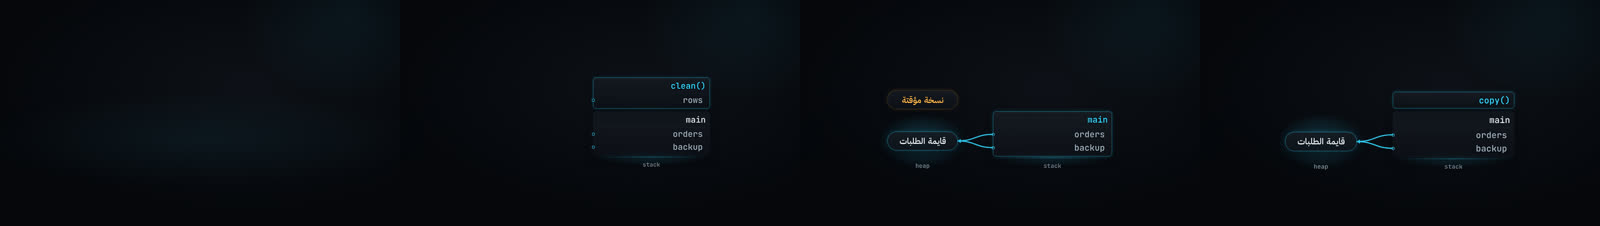
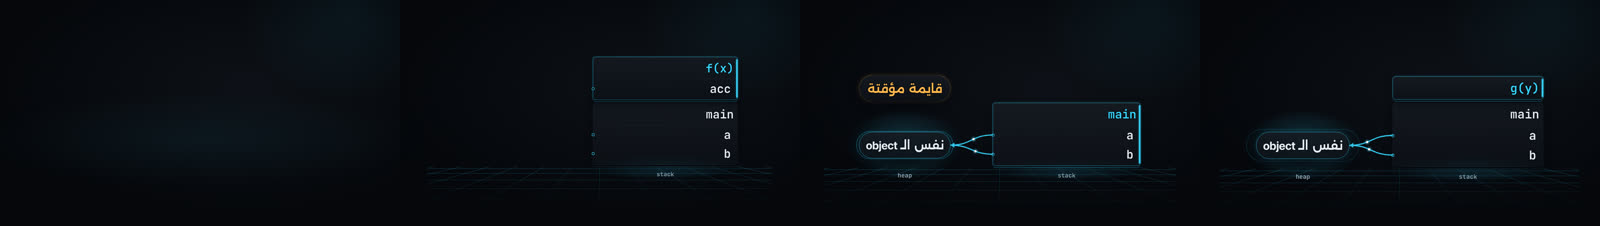
P7 struct-b: StackHeap finished (glass slabs on perspective floor, light-cursor bar, travelling ref pulses, aliasing pulse, collect sparks; CH-08 demo; snap PASS det 0 qa 0, baselines pending-critic; perf lite 0.073 / standard 0.091 / hero 0.091 box s/frame; Arabic QA pass)
Claude-Session: https://claude.ai/code/session_01VrU9wxU8GmuhdhWAAHnnQ8

diff --git a/studio/src/components/StackHeap/StackHeap.tsx b/studio/src/components/StackHeap/StackHeap.tsx
@@ -18,7 +18,7 @@ import {hex} from '../../fx/look';
 import {ease, presetFrames} from '../../type/reveal';
 import type {DcComponent, DcProps} from '../../spec/types';
 import type {Props} from './schema';
-import {GlowPath, Lbl, Pool, actionsOf, arrowHead, cPath, cardStyle, clamp01, f24, layerStyle, prog, rtlOf} from '../_struct-b/kit';
+import {GlowPath, Lbl, Pool, actionsOf, arrowHead, cAt, cPath, cardStyle, clamp01, f24, layerStyle, prog, rtlOf, type Pt} from '../_struct-b/kit';
 
 type Ctx = DcProps<Props>['ctx'];
 type SFrame = {key: string; label: string; vars: string[]; born: number; died: number};
@@ -55,24 +55,24 @@ export const StackHeapView: React.FC<DcProps<Props>> = ({props, ctx}) => {
   const k = 1 + ctx.mod.glow;
   // ---- stack geometry (conservative: every frame that ever exists, so nothing jumps when frames come and go) ----
   const headTop = Math.round(SIZE.label * 1.6); // column captions
-  const stackW = Math.min(560, w * 0.36);
+  const stackW = Math.min(760, w * 0.42);
   const avail = h - headTop - 12;
   const gap = 14;
   const dims = (s: number, fold: number) => {
-    const rowH = Math.round(s * 1.55);
+    const rowH = Math.round(s * 1.6);
     const hdr = Math.round(s * 1.9);
     const hs = tl.frames.map((f, i) => hdr + (i < fold ? 0 : f.vars.length * rowH) + (f.vars.length && i >= fold ? 10 : 0));
     return {rowH, hdr, hs, total: hs.reduce((a, b) => a + b, 0) + gap * Math.max(0, tl.frames.length - 1)};
   };
-  let s: number = SIZE.body;
+  let s: number = SIZE.sub; // 56 px at the largest; shrinks to the 28 px floor as frames / variables grow
   let fold = 0;
   let dm = dims(s, fold);
   while (dm.total > avail && s > SIZE.labelMin) dm = dims((s -= 2), fold);
   while (dm.total > avail && fold < tl.frames.length - 1) dm = dims(s, ++fold);
   // heap columns first (the stack + heap group is centred horizontally in the box)
-  const objW = Math.min(340, Math.max(200, w * 0.2));
+  const objW = Math.min(460, Math.max(240, w * 0.26));
   const objH = Math.round(s * 2.2);
-  const heapGap = Math.max(80, w * 0.1);
+  const heapGap = Math.max(100, w * 0.12);
   const minGap = objH + 26;
   const hcols = tl.heap.length * minGap > h - headTop - 24 ? 2 : 1;
   const groupW = stackW + (tl.heap.length ? heapGap + objW + (hcols - 1) * (objW + 50) : 0);
@@ -82,7 +82,7 @@ export const StackHeapView: React.FC<DcProps<Props>> = ({props, ctx}) => {
   // stack slots: alive frames bottom-up; a frame keeps its slot (pushes / pops only touch the top)
   const alive = (f: SFrame) => f.born <= t && t < f.died + exitN;
   const slotY = new Map<string, number>();
-  const floorY = Math.round((h + dm.total) / 2 - SIZE.labelMin); // the whole stack (every frame that ever exists) is centred in the box
+  const floorY = Math.round((h + dm.total) / 2 - SIZE.labelMin * 2.5); // the whole stack (every frame that ever exists) is centred in the box
   let yb = floorY;
   tl.frames.forEach((f, i) => {
     if (t < f.born) return;
@@ -159,19 +159,27 @@ export const StackHeapView: React.FC<DcProps<Props>> = ({props, ctx}) => {
     const orphan = oa === Infinity ? 0 : prog(t, oa, lblN);
     return {ent, gc, orphan, on: t >= o.born && gc < 1};
   };
+  // heap objects float a few px above the floor (the heap is free memory, the stack stands on the floor); settles after entry
+  const bobOf = (o: HObj, j: number) => {
+    const u = clamp01((t - o.born) / Math.max(1, lblN * 3));
+    return Math.sin(((t - o.born) / (ctx.fps * 3.4)) * Math.PI * 2 + j * 1.7) * 3.2 * u;
+  };
+  const bobs = new Map(tl.heap.map((o, j) => [o.id, bobOf(o, j)]));
   // ---- references ----
-  type R = {d: string; head: string; on: number; to: string};
+  type R = {d: string; head: string; on: number; to: string; pts: [Pt, Pt, Pt, Pt]; drawn: number};
   const refs: R[] = [];
   const incoming = new Map<string, number>();
   props.refs.forEach((r, i) => {
     const to = tl.heap.find((o) => o.id === r.to);
-    const tp = objPos.get(r.to);
+    const tp0 = objPos.get(r.to);
+    const tp = tp0 && {x: tp0.x, y: tp0.y + (bobs.get(r.to) ?? 0)};
     if (!to || !tp) return;
     const ts = objState(to);
     let a: {x: number; y: number; on: number} | undefined = ports.get(r.from);
     if (!a) {
       const src = tl.heap.find((o) => o.id === r.from);
-      const sp = src && objPos.get(src.id);
+      const sp0 = src && objPos.get(src.id);
+      const sp = sp0 && {x: sp0.x, y: sp0.y + (bobs.get(src!.id) ?? 0)};
       if (src && sp) {
         const ss = objState(src);
         a = {x: sp.x + ((tp.x > sp.x ? 1 : -1) * objW) / 2, y: sp.y, on: ss.on ? ss.ent * (1 - ss.gc) : 0};
@@ -189,23 +197,40 @@ export const StackHeapView: React.FC<DcProps<Props>> = ({props, ctx}) => {
     const tx = tp.x + ((a.x < tp.x ? -1 : 1) * objW) / 2;
     const b = {x: tx, y: tp.y};
     const dx = (b.x - a.x) * 0.5;
-    refs.push({d: cPath(a, {x: a.x + dx, y: a.y}, {x: b.x - dx, y: b.y}, b), head: draw >= 1 ? arrowHead(b, {x: b.x - a.x >= 0 ? 1 : -1, y: 0}, 9) : '', on: on * Math.min(1, draw * 2), to: r.to});
+    refs.push({d: cPath(a, {x: a.x + dx, y: a.y}, {x: b.x - dx, y: b.y}, b), head: draw >= 1 ? arrowHead(b, {x: b.x - a.x >= 0 ? 1 : -1, y: 0}, 11) : '', on: on * Math.min(1, draw * 2), to: r.to, pts: [a, {x: a.x + dx, y: a.y}, {x: b.x - dx, y: b.y}, b], drawn: Math.max(tl.refsStart + f24(2 * i, ctx.fps), to.born) + presetFrames('arrive', ctx.fps)});
     if (draw >= 1) incoming.set(r.to, (incoming.get(r.to) ?? 0) + 1);
   });
   return (
     <div style={{position: 'absolute', left: ctx.box.x, top: ctx.box.y, width: w, height: h, ...layerStyle(ctx, rtl)}}>
       {/* column captions (Latin chrome) */}
-      <Lbl id={`${ctx.id}:cs`} text="stack" x={stackX + stackW / 2} y={capY} valign="top" maxW={stackW} size={SIZE.labelMin} color={C.ink3} opacity={prog(t, ctx.at, lblN)} role="code" />
-      {tl.heap.length ? <Lbl id={`${ctx.id}:ch`} text="heap" x={heapCx} y={capY} valign="top" maxW={objW * 2} size={SIZE.labelMin} color={C.ink3} opacity={prog(t, tl.heap[0].born, lblN)} role="code" /> : null}
+      <Lbl id={`${ctx.id}:cs`} text="stack" x={stackX + stackW / 2} y={capY} valign="top" maxW={stackW} size={SIZE.labelMin} color={C.ink2} opacity={prog(t, ctx.at, lblN)} role="code" />
+      {tl.heap.length ? <Lbl id={`${ctx.id}:ch`} text="heap" x={heapCx} y={capY} valign="top" maxW={objW * 2} size={SIZE.labelMin} color={C.ink2} opacity={prog(t, tl.heap[0].born, lblN)} role="code" /> : null}
       {/* aliasing pools behind objects that two names point at */}
       {tl.heap.map((o) => {
         const p = objPos.get(o.id)!;
         const m = incoming.get(o.id) ?? 0;
         return m >= 2 ? <Pool key={o.id} x={p.x} y={p.y} r={objW * 0.9} color={C.signal} a={0.24} squash={0.6} /> : null;
       })}
-      {/* stack floor: a lit base line the frames stand on */}
-      <Pool x={stackX + stackW / 2} y={floorY + 8} r={stackW * 0.7} color={C.signal} a={0.16 * k} squash={0.14} />
-      <div style={{position: 'absolute', left: stackX, top: floorY + 6, width: stackW, height: 3, borderRadius: 2, background: `linear-gradient(90deg, transparent, ${C.signal}${hex(0.7)}, transparent)`, opacity: prog(t, ctx.at, lblN)}} />
+      {/* floor plane: a perspective grid fading away from the lit base line the frames stand on (depth + light, ADR-003 LK-F) */}
+      <svg width={w} height={h} style={{position: 'absolute', inset: 0, overflow: 'hidden', opacity: prog(t, ctx.at, lblN)}}>
+        <defs>
+          <linearGradient id={`${ctx.id}-fl`} gradientUnits="userSpaceOnUse" x1="0" y1={floorY + 8} x2="0" y2={h}>
+            <stop offset="0" stopColor={C.signal} stopOpacity={0.34} />
+            <stop offset="1" stopColor={C.signal} stopOpacity={0} />
+          </linearGradient>
+        </defs>
+        {Array.from({length: 6}, (_, i) => {
+          const d = Math.pow((i + 1) / 6, 1.7) * Math.max(40, h - floorY - 8);
+          const half = groupW * (0.62 + 0.32 * ((i + 1) / 6));
+          return <line key={`h${i}`} x1={gx + groupW / 2 - half} x2={gx + groupW / 2 + half} y1={floorY + 8 + d} y2={floorY + 8 + d} stroke={`url(#${ctx.id}-fl)`} strokeWidth={1.5} />;
+        })}
+        {Array.from({length: 13}, (_, j) => {
+          const q = (j - 6) * groupW * 0.1;
+          return <line key={`v${j}`} x1={gx + groupW / 2 + q} y1={floorY + 8} x2={gx + groupW / 2 + q * 2.4} y2={h} stroke={`url(#${ctx.id}-fl)`} strokeWidth={1.5} />;
+        })}
+      </svg>
+      <Pool x={stackX + stackW / 2} y={floorY + 8} r={stackW * 0.78} color={C.signal} a={0.2 * k} squash={0.16} />
+      <div style={{position: 'absolute', left: stackX - 20, top: floorY + 6, width: stackW + 40, height: 3, borderRadius: 2, background: `linear-gradient(90deg, transparent, ${C.signal}${hex(0.8)}, transparent)`, opacity: prog(t, ctx.at, lblN)}} />
       {/* stack frames */}
       {tl.frames.map((f, i) => {
         const y0 = slotY.get(f.key);
@@ -219,13 +244,14 @@ export const StackHeapView: React.FC<DcProps<Props>> = ({props, ctx}) => {
         const land = pushed ? prog(t, f.born + presetFrames('impact', ctx.fps, true) - 1, presetFrames('arrive', ctx.fps), ease.arrive) : 0;
         const vars = i < fold ? [] : f.vars;
         return (
-          <div key={f.key} style={{position: 'absolute', left: stackX, top: y0, width: stackW, height: dm.hs[i], transform: `translateY(${dy.toFixed(1)}px)`, opacity: ent * (1 - out), ...cardStyle(top ? C.signal : undefined, top ? 0.92 : 0.82)}}>
+          <div key={f.key} style={{position: 'absolute', left: stackX, top: y0, width: stackW, height: dm.hs[i], transform: `translateY(${dy.toFixed(1)}px)`, opacity: ent * (1 - out), ...cardStyle(top ? C.signal : undefined, top ? 0.92 : 0.82), boxShadow: `inset 0 1px 0 ${C.ink}${hex(0.12)}, 0 7px 0 ${C.void}, 0 8.5px 0 ${top ? C.signal + hex(0.55) : C.grid}, 0 22px 40px ${C.void}${hex(0.6)}${top ? `, 0 0 ${(ctx.fx.glowInner * 2.2 * k).toFixed(1)}px ${C.signal}${hex(0.3)}` : ''}`}}>
+            {top ? <div style={{position: 'absolute', top: 10, bottom: 10, [rtl ? 'right' : 'left']: 0, width: 6, borderRadius: 3, background: C.signal, boxShadow: `0 0 ${(ctx.fx.glowInner * 1.6 * k).toFixed(1)}px ${C.signal}`}} /> : null}
             {pushed && land > 0 && land < 1 ? <div style={{position: 'absolute', inset: 0, borderRadius: 14, border: `2px solid ${C.signal}`, opacity: (1 - land) * 0.8, transform: `scale(${(1 + land * 0.08).toFixed(3)})`}} /> : null}
             <Lbl id={`${ctx.id}:f${f.key}`} text={f.label} x={rtl ? stackW - 20 : 20} y={dm.hdr / 2} align={rtl ? 'right' : 'left'} maxW={stackW - 40} size={s} color={top ? C.signal : C.ink} />
             {vars.length ? <div style={{position: 'absolute', left: 14, right: 14, top: dm.hdr - 2, height: 1, background: `${C.ink}${hex(0.1)}`}} /> : null}
             {vars.map((v, j) => (
               <React.Fragment key={j}>
-                <Lbl id={`${ctx.id}:f${f.key}v${j}`} text={v} x={rtl ? stackW - 34 : 34} y={dm.hdr + j * dm.rowH + dm.rowH / 2} align={rtl ? 'right' : 'left'} maxW={stackW - 80} size={s} color={C.ink2} />
+                <Lbl id={`${ctx.id}:f${f.key}v${j}`} text={v} x={rtl ? stackW - 34 : 34} y={dm.hdr + j * dm.rowH + dm.rowH / 2} align={rtl ? 'right' : 'left'} maxW={stackW - 80} size={s} color={C.ink} />
                 <div style={{position: 'absolute', left: rtl ? -7 : stackW - 7, top: dm.hdr + j * dm.rowH + dm.rowH / 2 - 7, width: 14, height: 14, borderRadius: 7, background: C.ground, border: `2.5px solid ${C.signal}`}} />
               </React.Fragment>
             ))}
@@ -238,6 +264,18 @@ export const StackHeapView: React.FC<DcProps<Props>> = ({props, ctx}) => {
           <g key={i} opacity={r.on}>
             <GlowPath d={r.d} color={C.signal} width={4} fx={ctx.fx} k={0.8 * k} />
             {r.head ? <path d={r.head} fill={C.signal} /> : null}
+            {r.head ? (() => {
+              const per = Math.round(ctx.fps * 1.4);
+              const u = ((t - r.drawn) % per + per) % per / per;
+              const q = cAt(r.pts[0], r.pts[1], r.pts[2], r.pts[3], u);
+              const fade = Math.sin(u * Math.PI);
+              return (
+                <g opacity={fade}>
+                  <circle cx={q.x} cy={q.y} r={13} fill={C.signal} fillOpacity={0.22 * k} />
+                  <circle cx={q.x} cy={q.y} r={5.5} fill={C.white} />
+                </g>
+              );
+            })() : null}
           </g>
         ))}
       </svg>
@@ -245,12 +283,16 @@ export const StackHeapView: React.FC<DcProps<Props>> = ({props, ctx}) => {
       {tl.heap.map((o) => {
         const st = objState(o);
         if (!st.on) return null;
-        const p = objPos.get(o.id)!;
+        const p0 = objPos.get(o.id)!;
+        const p = {x: p0.x, y: p0.y + (bobs.get(o.id) ?? 0)};
         const alias = (incoming.get(o.id) ?? 0) >= 2;
+        const ringU = alias ? ((t - o.born) % Math.round(ctx.fps * 1.8)) / Math.round(ctx.fps * 1.8) : 0;
         const accent = st.gc > 0 ? C.crit : st.orphan > 0 ? C.warn : alias ? C.signal : C.violet;
         const sc = (0.6 + 0.4 * st.ent) * (1 - 0.18 * st.gc);
         return (
           <React.Fragment key={o.id}>
+            <Pool x={p0.x} y={p0.y + objH / 2 + 16} r={objW * 0.42} color={C.void} a={0.6 * st.ent * (1 - st.gc)} squash={0.22} />
+            {alias && st.gc === 0 ? <div style={{position: 'absolute', left: p.x - objW / 2, top: p.y - objH / 2, width: objW, height: objH, borderRadius: objH / 2, border: `2px solid ${C.signal}`, opacity: (1 - ringU) * 0.6, transform: `scale(${(1 + ringU * 0.3).toFixed(3)})`}} /> : null}
             <div style={{position: 'absolute', left: p.x - objW / 2, top: p.y - objH / 2, width: objW, height: objH, transform: `scale(${sc.toFixed(3)})`, opacity: Math.min(1, st.ent * 1.4) * (1 - st.gc), ...cardStyle(accent, 0.9), borderRadius: objH / 2, borderStyle: st.orphan > 0 ? 'dashed' : 'solid'}}>
               <Lbl id={`${ctx.id}:o${o.id}`} text={o.label} x={objW / 2} y={objH / 2} maxW={objW - 36} size={s} color={st.gc > 0 ? C.crit : st.orphan > 0 ? C.warn : C.ink} />
             </div>

diff --git a/studio/src/demos/struct-b.tsx b/studio/src/demos/struct-b.tsx
@@ -87,7 +87,8 @@ const git: DemoDef = {
 };
 
 // 04 section 6 "State, memory": two names -> one heap object (aliasing); a call slides in a new frame; the dropped object is
-// collected. No numbers on screen.
+// collected. Content follows CH-08 (canon chapters.json: S01 two variables draw arrows to one heap list, label_ar 'نفس الـobject';
+// S03 `def f(x, acc=[])`). No numbers on screen, so nothing needs a ref.
 const stack: DemoDef = {
   name: 'StackHeap',
   frames: 216,
@@ -108,24 +109,24 @@ const stack: DemoDef = {
           id: 'mem',
           slot: 'full',
           frames: [
-            {label: 'main', vars: ['orders', 'backup']},
-            {label: 'clean()', vars: ['rows']},
+            {label: 'main', vars: ['a', 'b']},
+            {label: 'f(x)', vars: ['acc']},
           ],
           heap: [
-            {id: 'lst', label: 'قايمة الطلبات'},
-            {id: 'tmp', label: 'نسخة مؤقتة'},
+            {id: 'lst', label: 'نفس الـobject'},
+            {id: 'tmp', label: 'قايمة مؤقتة'},
           ],
           refs: [
-            {from: 'orders', to: 'lst'},
-            {from: 'backup', to: 'lst'},
-            {from: 'rows', to: 'tmp'},
+            {from: 'a', to: 'lst'},
+            {from: 'b', to: 'lst'},
+            {from: 'acc', to: 'tmp'},
           ],
         },
         at: A('StackHeap', 1),
       },
       {component: 'StackHeap.pop', props: {target: 'mem'}, at: A('StackHeap', 3)},
       {component: 'StackHeap.collect', props: {target: 'mem', node: 'tmp'}, at: A('StackHeap', 4)},
-      {component: 'StackHeap.push', props: {target: 'mem', label: 'copy()'}, at: A('StackHeap', 5)},
+      {component: 'StackHeap.push', props: {target: 'mem', label: 'g(y)'}, at: A('StackHeap', 5)},
     ],
   },
 };

diff --git a/docs/p7/catalog_status/struct-b.md b/docs/p7/catalog_status/struct-b.md
@@ -3,3 +3,4 @@
 | Component | Status | Note |
 |---|---|---|
 | GitGraph | implemented | snap PASS det 0 qa 0 (pending-critic); perf box s/frame lite 0.056 / standard 0.071 / hero 0.066; qa arabic PASS; branching light-graph, messages on the outer side of each lane in two alternating rows, no numbers on screen |
+| StackHeap | implemented | snap PASS det 0 qa 0 (pending-critic); perf box s/frame lite 0.073 / standard 0.091 / hero 0.091; qa arabic PASS (OCR 2/2); stack of glass slabs on a lit perspective floor (running frame has a light cursor bar), heap capsules float above it, refs path-draw with travelling light pulses, aliased object pulses, orphan turns amber then crit sparks on collect; push/pop/collect actions; demo = CH-08 S01/S03 (a, b -> one object; f(x) acc), no numbers on screen; 2.5D only, no WebGL
